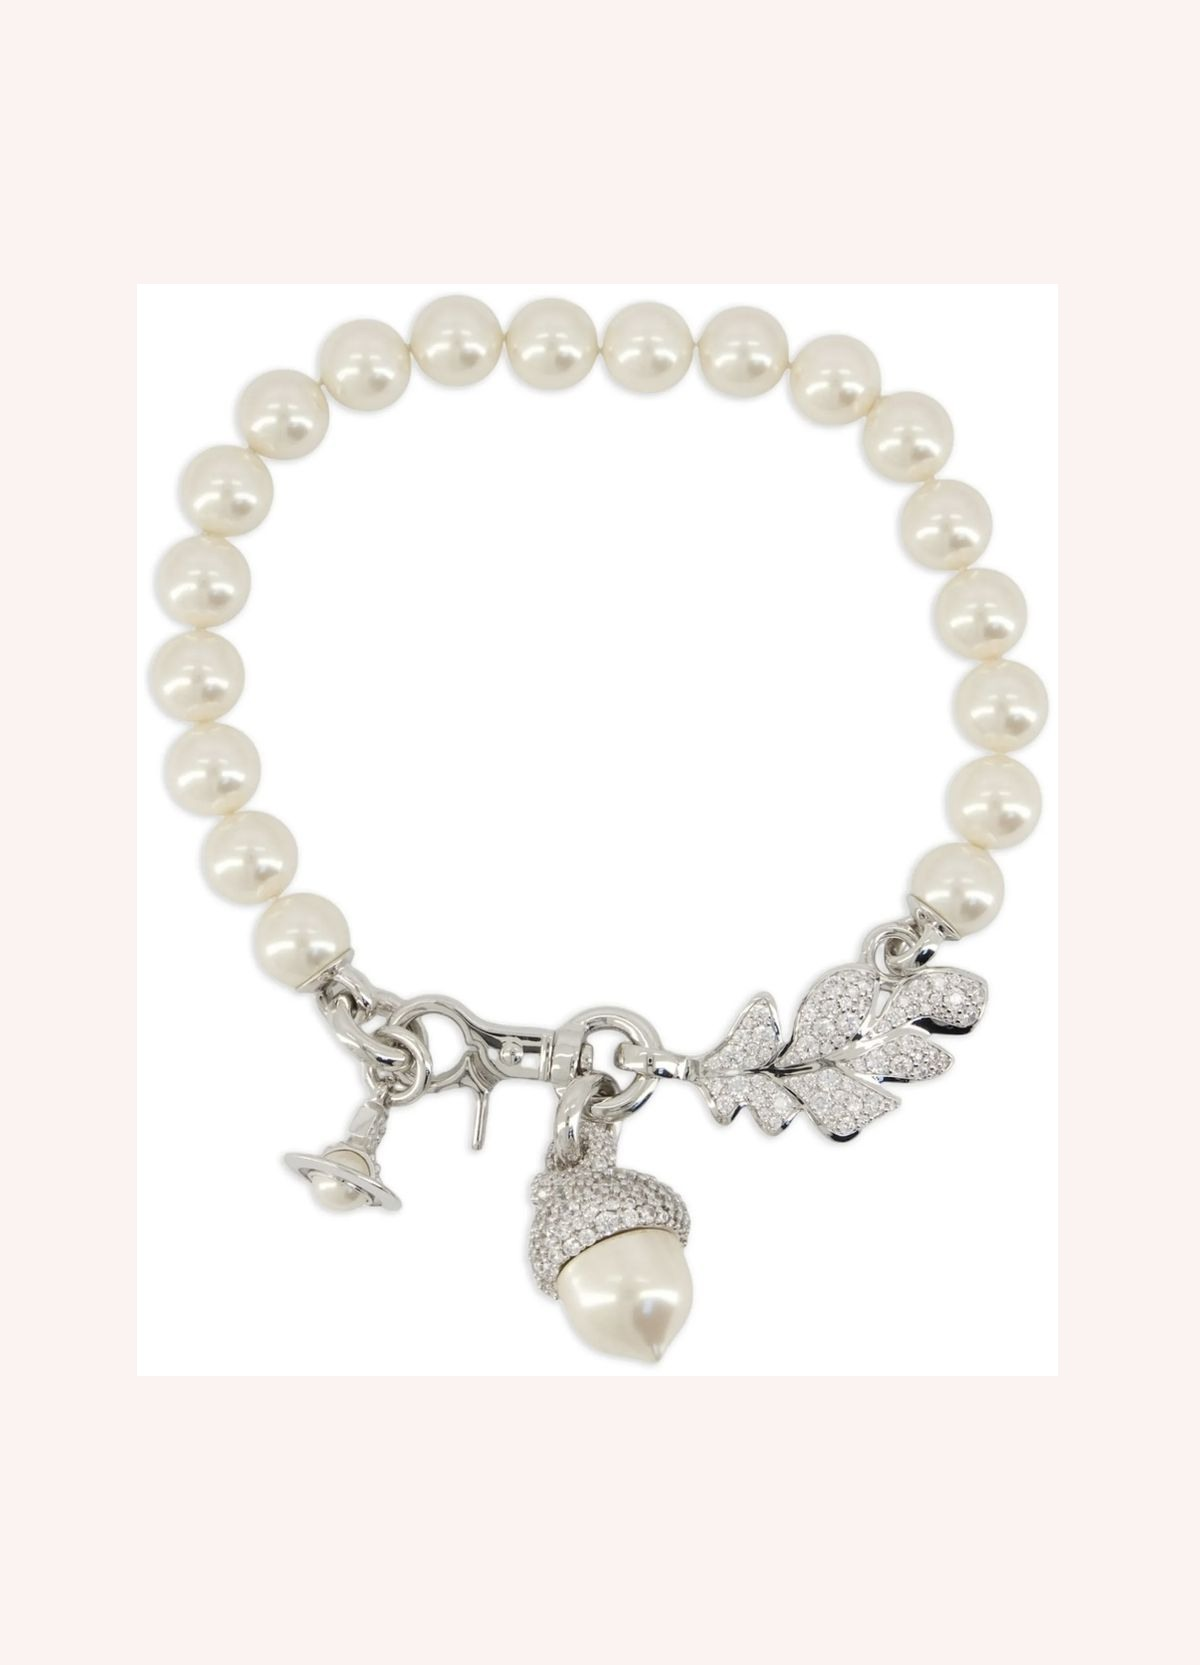
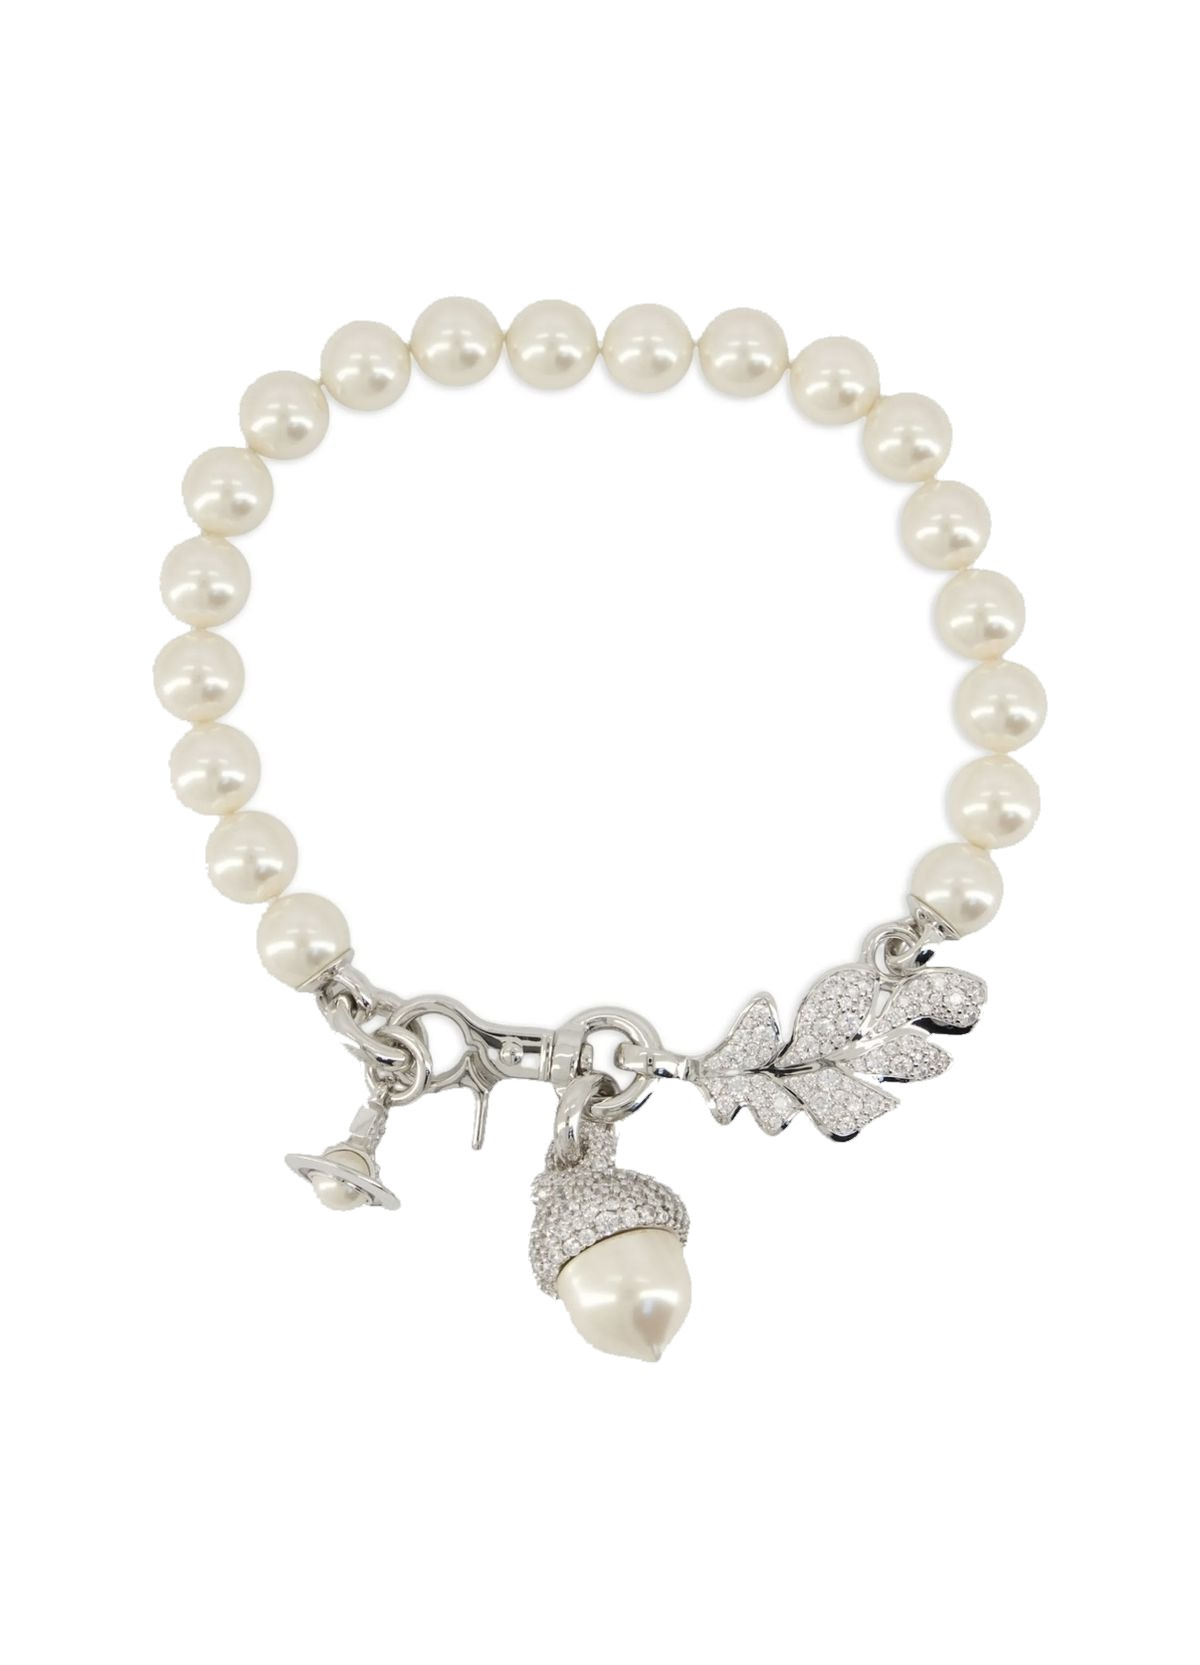
Аксессуары №7: мятный берет с сердечком (розовый фон в файле) и подпись №6

diff --git a/index.html b/index.html
@@ -413,7 +413,7 @@ h1, h2, h3, .serif { font-family: var(--font-serif); font-weight: 500; line-heig
 /* каталожная карточка «Платья №1»: светло-розовый фон как у остальных */
 .card__photo img[src="21ba573292b76c7f42ed41101f8e54ff.jpg"] { mix-blend-mode: multiply; }
 .card__photo img[src="outer-fur-white2.jpg"] { object-fit: contain; mix-blend-mode: multiply; }
-.card__photo img[src="acc-bracelet-pearl.jpg"] { object-fit: contain; mix-blend-mode: normal; }
+.card__photo img[src="acc-bracelet-pearl.jpg"], .card__photo img[src="acc-beret-mint.jpg"] { object-fit: contain; mix-blend-mode: normal; }
 .card__photo img[src="acc-scarf-dot2.jpg"] { object-fit: contain; }
 .card__photo img[src="acc-bangle-mint.jpg"] { object-fit: contain; mix-blend-mode: multiply; }
 .card__photo img[src="acc-earrings.jpg"] { object-fit: contain; }
@@ -1347,7 +1347,7 @@ h1, h2, h3, .serif { font-family: var(--font-serif); font-weight: 500; line-heig
     skirts:       { title: 'Юбки',            base: 8400,  photos: { 0: 'skirt-ruffle.jpg', 1: 'skirt-beige.jpg', 2: 'skirt-plaid.jpg', 3: 'skirt-lace.jpg', 4: 'skirt-coquette.jpg', 5: 'skirt-puf.jpg', 6: 'skirt-velvet.jpg', 7: 'skirt-denim.jpg' } },
     pants:        { title: 'Брюки',           base: 9900,  photos: { 0: 'pants-denim.jpg', 1: 'pants-khaki.jpg', 2: 'pants-black.jpg', 3: 'pants-polka-pink.jpg', 4: 'pants-velvet-gray.jpg', 5: 'pants-gray.jpg', 6: 'pants-sky.jpg', 7: 'pants-satin-blue.jpg' } },
     outer:        { title: 'Верхняя одежда',  base: 34500,  photos: { 0: 'outer-shearling.jpg', 1: 'outer-pea-gray.jpg', 2: 'outer-quilted.jpg', 3: 'outer-fur-biker.jpg', 4: 'outer-fur-cream.jpg', 5: 'outer-denim-fur.jpg', 6: 'outer-pink-fur.jpg', 7: 'outer-fur-taupe.jpg' } },
-    accessories:  { title: 'Аксессуары',      base: 3900,  photos: { 0: 'acc-bracelet-pearl.jpg', 1: 'acc-scarf-dot2.jpg', 2: 'acc-bangle-mint.jpg', 3: 'acc-cap-pink.jpg', 4: 'acc-clover2.png', 5: 'acc-bangle-rose.jpg', 6: 'acc-necklace-pearl.jpg' } },
+    accessories:  { title: 'Аксессуары',      base: 3900,  photos: { 0: 'acc-bracelet-pearl.jpg', 1: 'acc-scarf-dot2.jpg', 2: 'acc-bangle-mint.jpg', 3: 'acc-cap-pink.jpg', 4: 'acc-clover2.png', 5: 'acc-bangle-rose.jpg', 6: 'acc-necklace-pearl.jpg', 7: 'acc-beret-mint.jpg' } },
     home:         { title: 'Домашняя одежда', base: 6900  },
     suits:        { title: 'Костюмы',         base: 9500  }
   };
@@ -1394,6 +1394,8 @@ h1, h2, h3, .serif { font-family: var(--font-serif); font-weight: 500; line-heig
     'accessories:3': { name: 'Кепка-картуз в рубчик, пыльно-розовая', meta: 'Вельвет, хлопок', price: 3490 },
     'accessories:4': { name: 'Серьги-клеверы из перламутра, серебро', meta: 'Перламутр · серебро 925', price: 4590 },
     'accessories:5': { name: 'Браслеты из ракушек, розовые', meta: 'Ракушка · Жемчуг', price: 2990 },
+    'accessories:6': { name: 'Мятный топ с кружевной вставкой', meta: 'Хлопок · кружево', price: 2990 },
+    'accessories:7': { name: 'Берет с сердечком, мятно-голубой', meta: 'Ангора · акрил', price: 3990 },
     'tops:6': { name: 'Мятный топ с кружевной вставкой', meta: 'Хлопок, кружево', price: 2990 },
     'outer:3': { name: 'Байкер из меха, кремовый', meta: 'Замша, Шерсть', fill: 'Наполнитель: полиэстер', price: 11990 },
     'outer:4': { name: 'Куртка с брошкой, кремовая', meta: 'Шерсть, Шёлк', fill: 'Наполнитель: полиэстер', price: 13990 },
